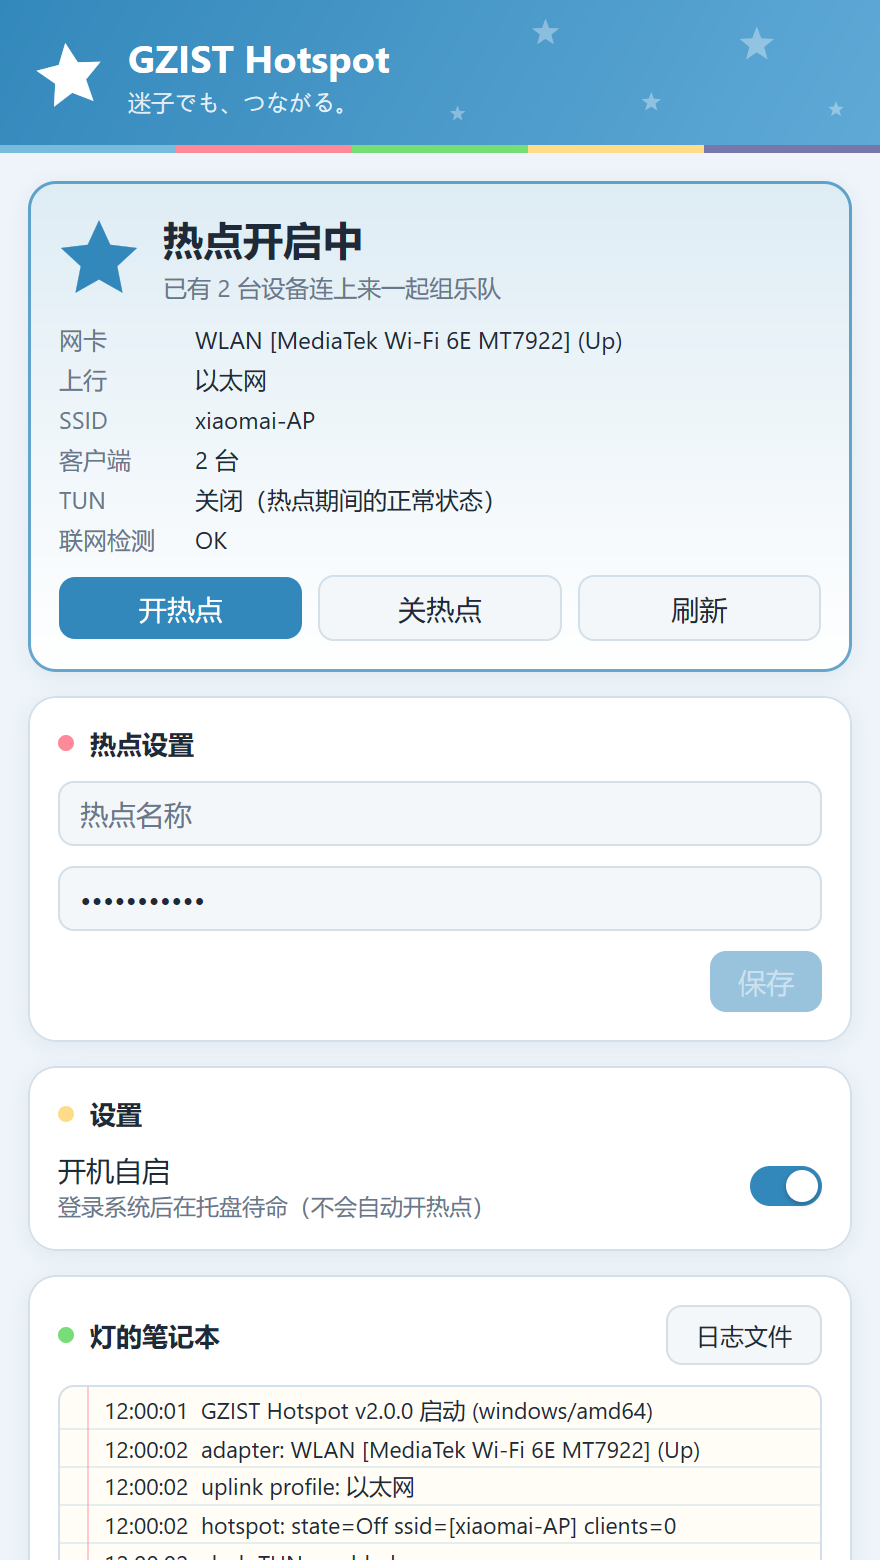
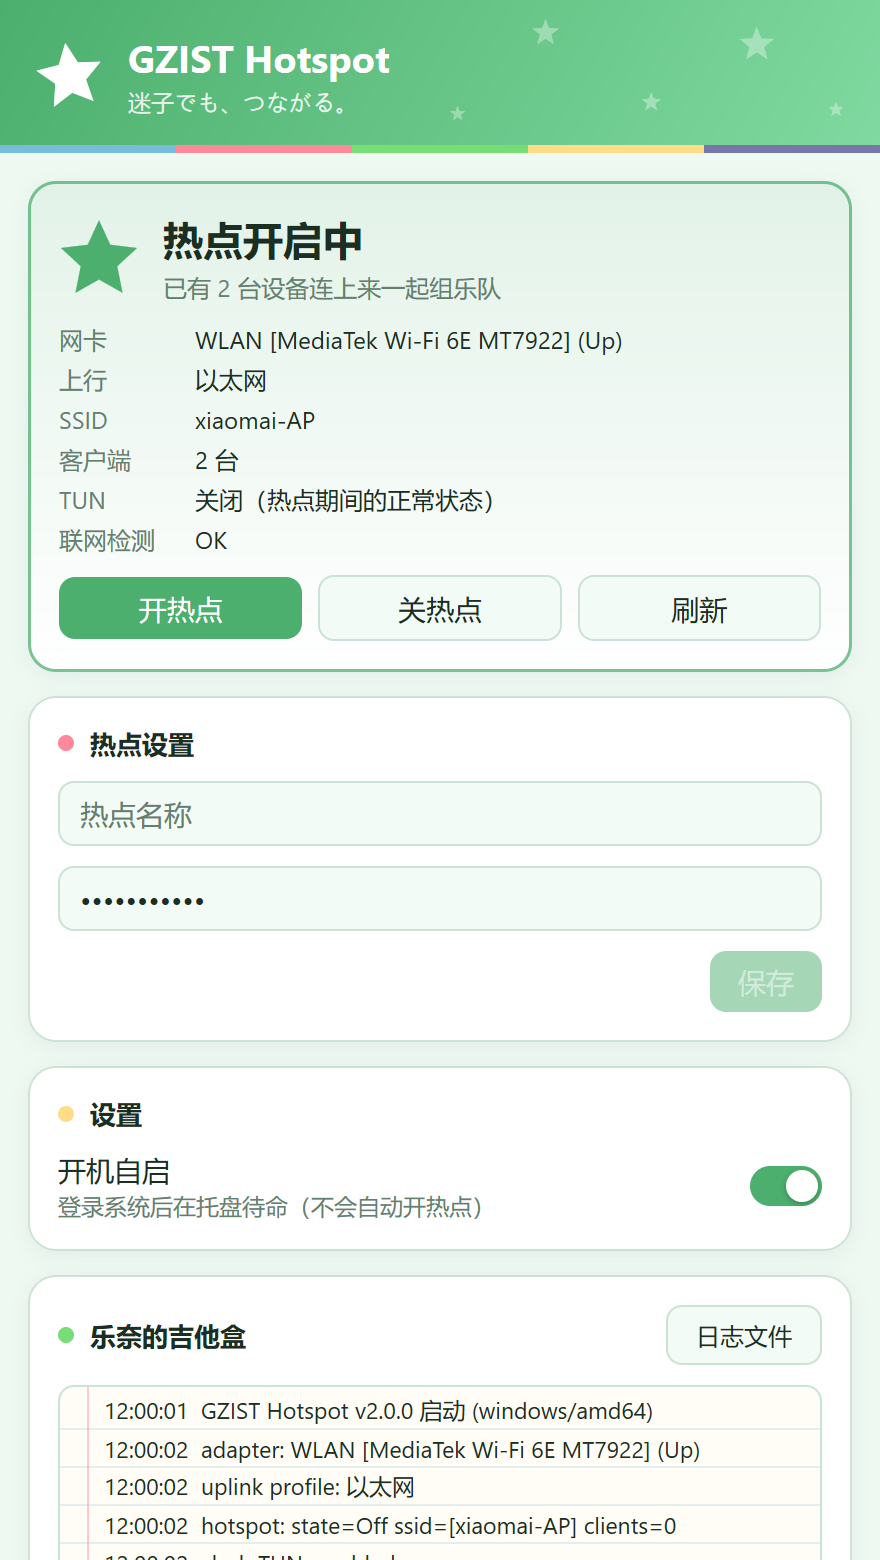
ui: Rana green theme across the window (header/accent/cards/log area)

diff --git a/view.go b/view.go
@@ -10,10 +10,10 @@ import (
 	"github.com/xiaomai1011/GZIST-Hotspot/internal/hotspot"
 )
 
-// The look follows BanG Dream! It's MyGO!!!!!: the band's blue, the five
-// members' colors, a 迷星 for the status and 灯's notebook for the log.
+// The look follows BanG Dream! It's MyGO!!!!! in Rana's green: the five
+// members' colors, a 迷星 for the status and 乐奈的吉他盒 for the log.
 var (
-	colBand   = ui.Hex("#3388BB")
+	colBand   = ui.Hex("#4CAF6D") // Rana's green, deepened for contrast
 	colTomori = ui.Hex("#77BBDD")
 	colAnon   = ui.Hex("#FF8899")
 	colRana   = ui.Hex("#77DD77")
@@ -85,18 +85,18 @@ func describe(st hotspot.State) status {
 func applyTheme(c *ui.Context) *ui.Theme {
 	t := *c.Theme()
 	if t.Dark {
-		t.Background = ui.Hex("#0F151E")
-		t.Surface, t.SurfaceHover, t.SurfacePressed = ui.Hex("#1D2733"), ui.Hex("#253242"), ui.Hex("#2D3C4F")
-		t.Border = ui.Hex("#2C394A")
-		t.Text, t.TextMuted = ui.Hex("#E7EEF6"), ui.Hex("#8E9CAF")
-		t.Accent, t.AccentHover, t.AccentPressed = ui.Hex("#4A9FD3"), ui.Hex("#66B2E0"), ui.Hex("#3388BB")
-		t.Selection, t.Focus = colBand.Alpha(0.45), colTomori.Alpha(0.6)
+		t.Background = ui.Hex("#0F1A14")
+		t.Surface, t.SurfaceHover, t.SurfacePressed = ui.Hex("#16281D"), ui.Hex("#1D3325"), ui.Hex("#24402E")
+		t.Border = ui.Hex("#26402F")
+		t.Text, t.TextMuted = ui.Hex("#E7F6EC"), ui.Hex("#8FAF9C")
+		t.Accent, t.AccentHover, t.AccentPressed = ui.Hex("#4CAF6D"), ui.Hex("#66D08E"), ui.Hex("#3B8F55")
+		t.Selection, t.Focus = colBand.Alpha(0.45), colRana.Alpha(0.6)
 	} else {
-		t.Background = ui.Hex("#EEF4F9")
-		t.Surface, t.SurfaceHover, t.SurfacePressed = ui.Hex("#F3F7FA"), ui.Hex("#E6EEF5"), ui.Hex("#D9E5EF")
-		t.Border = ui.Hex("#D3DFE9")
-		t.Text, t.TextMuted = ui.Hex("#1E2A38"), ui.Hex("#687789")
-		t.Accent, t.AccentHover, t.AccentPressed = colBand, ui.Hex("#2B79A8"), ui.Hex("#236890")
+		t.Background = ui.Hex("#EEF9F1")
+		t.Surface, t.SurfaceHover, t.SurfacePressed = ui.Hex("#F3FBF6"), ui.Hex("#E5F5EC"), ui.Hex("#D8EDDF")
+		t.Border = ui.Hex("#CBE3D4")
+		t.Text, t.TextMuted = ui.Hex("#1A2E22"), ui.Hex("#63806E")
+		t.Accent, t.AccentHover, t.AccentPressed = colBand, ui.Hex("#2E8B57"), ui.Hex("#246B3D")
 		t.Selection, t.Focus = colBand.Alpha(0.25), colBand.Alpha(0.5)
 	}
 	t.AccentText = ui.Hex("#FFFFFF")
@@ -107,7 +107,7 @@ func applyTheme(c *ui.Context) *ui.Theme {
 
 func cardBG(t *ui.Theme) ui.Color {
 	if t.Dark {
-		return ui.Hex("#161F2A")
+		return ui.Hex("#122218")
 	}
 	return ui.Hex("#FFFFFF")
 }
@@ -181,9 +181,9 @@ func (m *model) header(c *ui.Context, t *ui.Theme) {
 
 func headerColors(t *ui.Theme) (ui.Color, ui.Color, float32) {
 	if t.Dark {
-		return ui.Hex("#1E5A82"), ui.Hex("#2F7DAE"), 120
+		return ui.Hex("#1F6B40"), ui.Hex("#3B9B55"), 120
 	}
-	return colBand, ui.Hex("#5FA9D6"), 120
+	return colBand, ui.Hex("#7FD9A0"), 120
 }
 
 func (m *model) statusCard(c *ui.Context, t *ui.Theme, s status) {
@@ -344,7 +344,7 @@ func (m *model) logCard(c *ui.Context, t *ui.Theme) {
 	card(c, t).Children(func() {
 		ui.Row(c).Gap(8).AlignItems(ui.Center).Children(func() {
 			ui.Box(c).Size(8, 8).Radius(4).Background(colRana)
-			ui.Text(c, "灯的笔记本").FontSize(13).Bold().Grow(1)
+			ui.Text(c, "乐奈的吉他盒").FontSize(13).Bold().Grow(1)
 			if m.act.OpenLogs != nil && ui.Button(c, "日志文件").FontSize(12).Clicked() {
 				m.act.OpenLogs()
 			}
